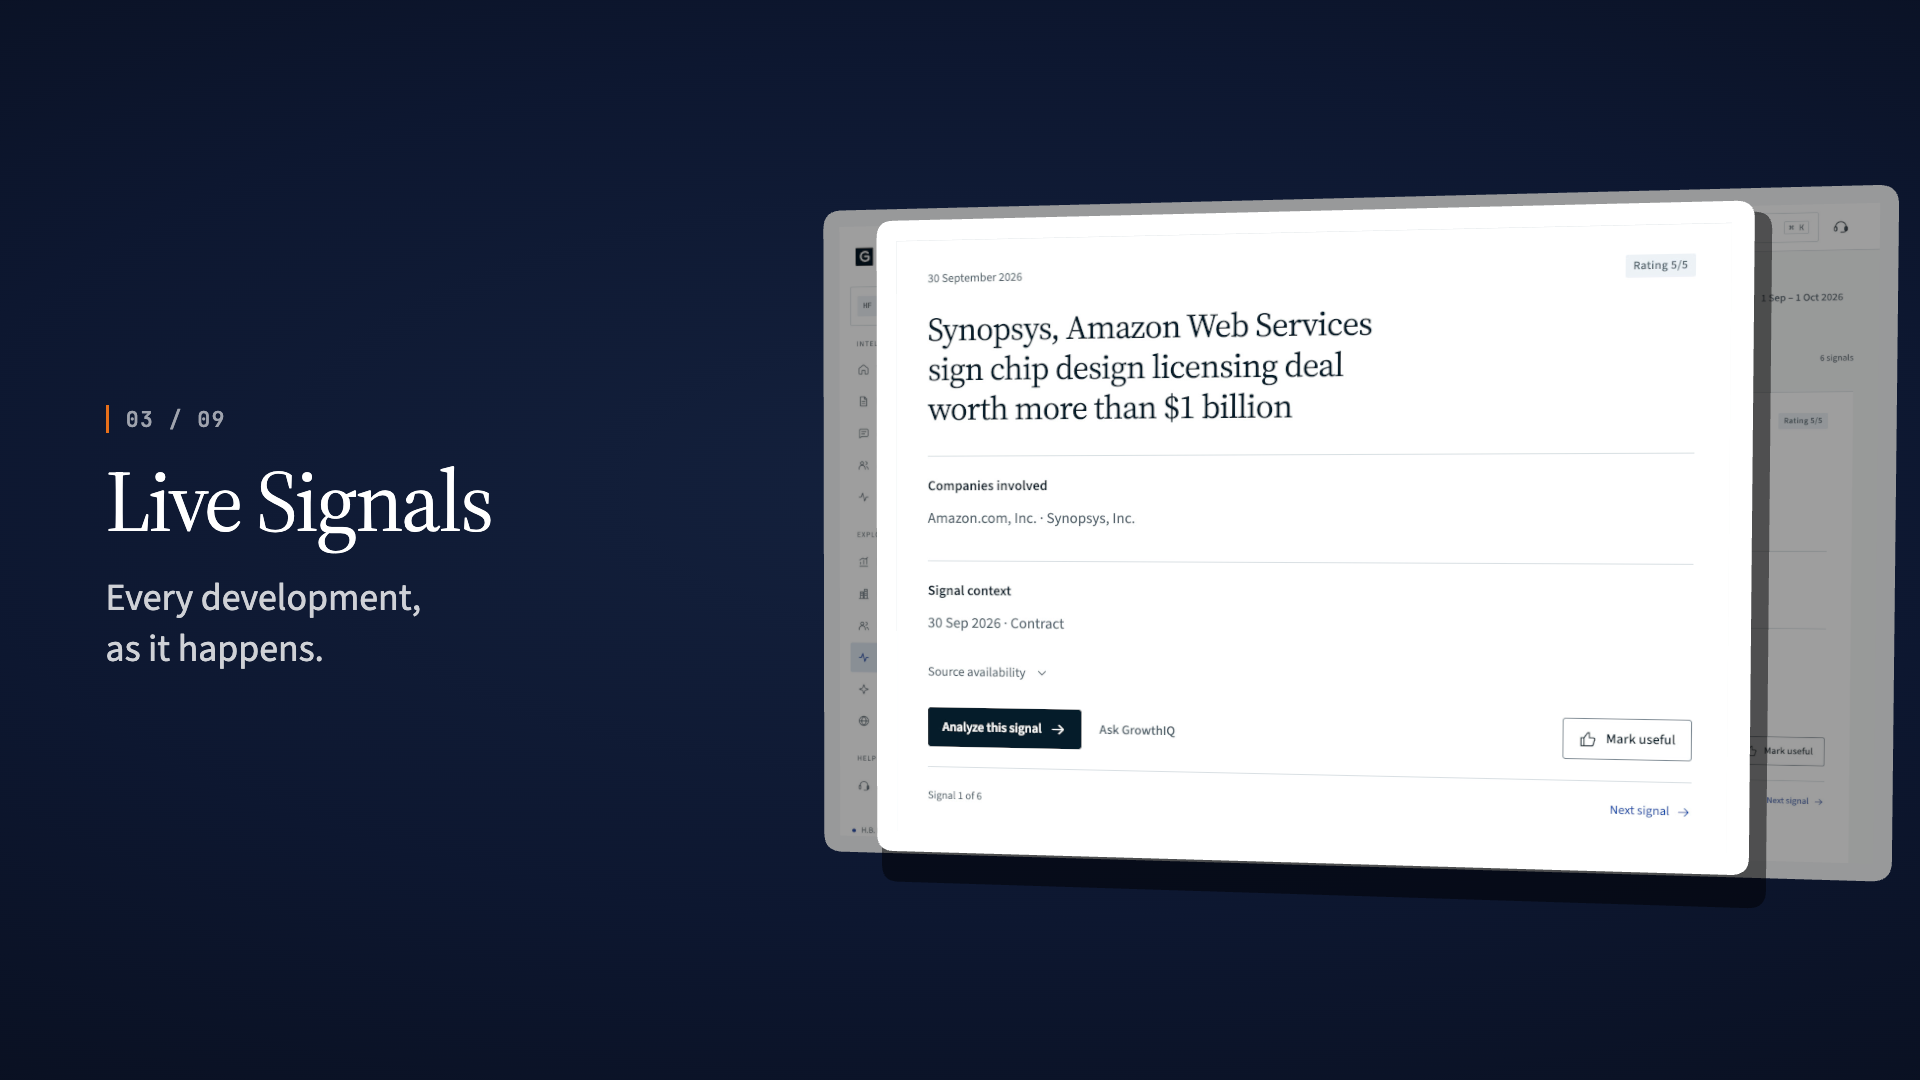
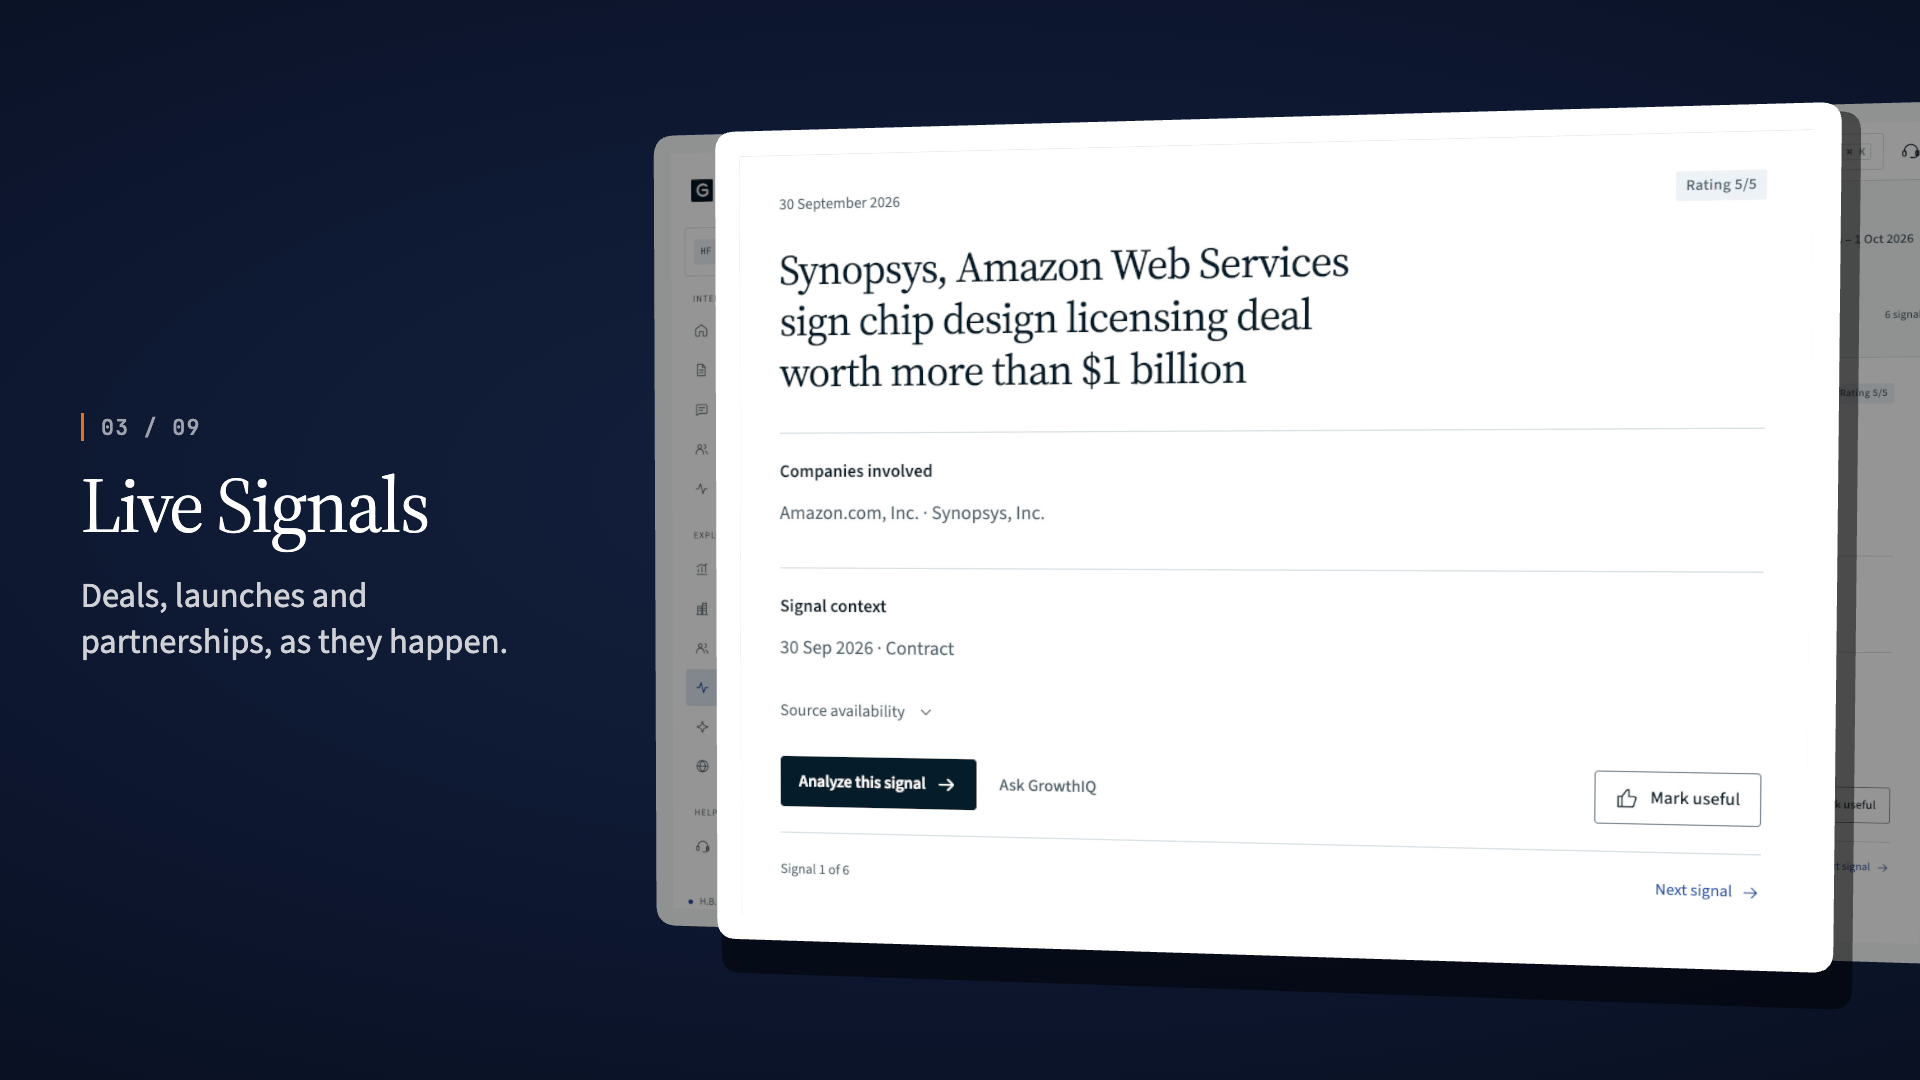
Second pass on the reel: larger, varied, scored, with rewritten captions
Cards and lifted panels are about a third larger. Shots now arrive three
ways (side, rising, out of the distance); some lift two panels in turn and
some slide a window across a region too large to read at once. The reel
gets its own generated score on the film's engine, which now accepts any
event list, length and level. Captions are rewritten.

diff --git a/reel/Scene.jsx b/reel/Scene.jsx
@@ -3,11 +3,11 @@ import {Canvas, useFrame, useLoader} from '@react-three/fiber';
 import * as THREE from 'three';
 import {shots, wall, close, images, phase, span, mix, inOut, out} from './shots.mjs';
 
-const CARD_HEIGHT = 3.7, PIXELS = [1440, 900], CARD_COLOUR = '#f7f8f9';
-const part = (texture, [x, y, w, h]) => { const t = texture.clone(); t.repeat.set(w, h); t.offset.set(x, 1 - y - h); t.needsUpdate = true; return t; };
-
+const CARD_HEIGHT = 4.6, PIXELS = [1440, 900], CARD_COLOUR = '#f7f8f9';
 // Even margins, in scene units: around the screen on its card, and around a lifted region.
-const CARD_MARGIN = 0.1, PANEL_MARGIN = 0.085, RADIUS = 0.07;
+const CARD_MARGIN = 0.11, PANEL_MARGIN = 0.1, RADIUS = 0.08;
+// The largest a lifted panel may grow to, before perspective.
+const PANEL_MAX = [5.5, 4.2];
 function roundedRect(w, h, r) {
   const x = -w / 2, y = -h / 2, s = new THREE.Shape();
   s.moveTo(x + r, y); s.lineTo(x + w - r, y); s.quadraticCurveTo(x + w, y, x + w, y + r); s.lineTo(x + w, y + h - r); s.quadraticCurveTo(x + w, y + h, x + w - r, y + h);
@@ -15,45 +15,67 @@ function roundedRect(w, h, r) {
   return new THREE.ShapeGeometry(s, 10);
 }
 
-// One product screen: it flies in as a card with an even margin round it, then the part being
-// talked about lifts off towards the viewer on its own padded panel while the rest falls back.
+// One product screen: it arrives as a card with an even margin round it, then the parts being
+// talked about lift off towards the viewer on their own padded panels while the rest falls back.
 function Shot({shot, texture, beat}) {
-  const group = useRef(), card = useRef(), cardBack = useRef(), panel = useRef(), shadow = useRef();
+  const group = useRef(), card = useRef(), cardBack = useRef(), panels = useRef([]);
   const g = useMemo(() => {
-    const [fx, fy, fw, fh] = shot.focusRect;
-    const height = CARD_HEIGHT, width = height * PIXELS[0] / PIXELS[1];
-    const size = [fw * width, fh * height], padded = [size[0] + PANEL_MARGIN * 2, size[1] + PANEL_MARGIN * 2];
-    return {width, height, size, home: [(fx + fw / 2 - 0.5) * width, (0.5 - fy - fh / 2) * height],
-      grow: Math.min(4.3 / padded[0], 3.25 / padded[1], 2.7), focusMap: part(texture, shot.focusRect),
-      cardShape: roundedRect(width + CARD_MARGIN * 2, height + CARD_MARGIN * 2, RADIUS * 1.6), panelShape: roundedRect(padded[0], padded[1], RADIUS), shadowShape: roundedRect(padded[0] * 1.03, padded[1] * 1.05, RADIUS)};
+    const height = CARD_HEIGHT, width = height * PIXELS[0] / PIXELS[1], pair = shot.panels.length > 1;
+    return {width, height, cardShape: roundedRect(width + CARD_MARGIN * 2, height + CARD_MARGIN * 2, RADIUS * 1.6), panels: shot.panels.map((panel, n) => {
+      const [x, y, w, h] = panel.rect, pan = panel.pan;
+      // A panning panel shows a window onto its region: part of the width or part of the height.
+      const seen = [pan?.axis === 'x' ? w * pan.view : w, pan?.axis === 'y' ? h * pan.view : h];
+      const size = [seen[0] * width, seen[1] * height], padded = [size[0] + PANEL_MARGIN * 2, size[1] + PANEL_MARGIN * 2];
+      const map = texture.clone(); map.repeat.set(seen[0], seen[1]); map.needsUpdate = true;
+      // Two panels share the stage: the first steps back and aside when the second arrives.
+      const limit = pair ? 0.86 : 1;
+      return {size, map, pan, rect: panel.rect, seen, background: panel.background, home: [(x + seen[0] / 2 - 0.5) * width, (0.5 - y - seen[1] / 2) * height],
+        grow: Math.min(PANEL_MAX[0] * limit / padded[0], PANEL_MAX[1] * limit / padded[1], 3.2), shape: roundedRect(padded[0], padded[1], RADIUS), shadowShape: roundedRect(padded[0] * 1.03, padded[1] * 1.05, RADIUS),
+        rest: pair ? (n === 0 ? [-0.75, 0.42, 1.0] : [0.7, -0.34, 1.75]) : [0, 0, 1.5]};
+    })};
   }, [shot, texture]);
 
   useFrame(({clock}) => {
     const p = phase(shot, beat());
     group.current.visible = p.visible;
     if (!p.visible) return;
-    const side = shot.side, drift = Math.sin(clock.elapsedTime * 0.5 + shot.from) * 0.02;
-    group.current.position.set(mix(side * 15, side * 2.2, p.enter) - side * 17 * p.leave, drift * 4, mix(-3, 0, p.enter));
-    group.current.rotation.set(0.02, mix(side * 1.0, -side * 0.15, p.enter) - side * 0.6 * p.leave + drift, 0);
-    const dim = mix(1, 0.34, p.lift);
+    const side = shot.side, drift = Math.sin(clock.elapsedTime * 0.5 + shot.from) * 0.02, x = side * 1.9, tilt = -side * 0.13;
+    // Three ways to arrive; every shot leaves the same way, off to the side it came to rest on.
+    const from = shot.entry === 'rise' ? {position: [x, -8, -1], rotation: [0.7, tilt, 0]} : shot.entry === 'depth' ? {position: [x * 0.4, 0.6, -26], rotation: [0.02, tilt * 3, 0]} : {position: [side * 15, 0, -3], rotation: [0.02, side * 1.0, 0]};
+    const to = {position: [x, 0, 0], rotation: [0.02, tilt, 0]};
+    group.current.position.set(mix(from.position[0], to.position[0], p.enter) - side * 17 * p.leave, mix(from.position[1], to.position[1], p.enter) + drift * 4, mix(from.position[2], to.position[2], p.enter));
+    group.current.rotation.set(mix(from.rotation[0], to.rotation[0], p.enter), mix(from.rotation[1], to.rotation[1], p.enter) - side * 0.6 * p.leave + drift, 0);
+    const dim = mix(1, 0.3, p.lift);
     card.current.material.color.setScalar(dim);
     cardBack.current.material.color.set(CARD_COLOUR).multiplyScalar(dim);
-    // Lifting brings the panel nearer the camera, which pushes it outwards on screen; lean it back in.
-    panel.current.position.set(mix(g.home[0], -side * 0.3, p.lift), mix(g.home[1], 0, p.lift), 0.012 + p.lift * 1.5);
-    panel.current.scale.setScalar(mix(1, g.grow, p.lift));
-    panel.current.visible = p.lift > 0.001;
-    shadow.current.material.opacity = 0.5 * p.lift;
-    shadow.current.position.set(0.05 * p.lift, -0.09 * p.lift, -0.12 * p.lift);
+
+    g.panels.forEach((panel, n) => {
+      const node = panels.current[n], lift = p.lifts[n], behind = n === 0 && g.panels.length > 1 ? p.lifts[1] : 0;
+      // Lifting brings a panel nearer the camera, which pushes it outwards on screen; lean it back in.
+      const rest = [(panel.rest[0] - behind * 0.25) * side - side * 0.25, panel.rest[1] + behind * 0.1, panel.rest[2] - behind * 0.3];
+      node.visible = lift > 0.001;
+      node.position.set(mix(panel.home[0], rest[0], lift), mix(panel.home[1], rest[1], lift), 0.012 + n * 0.01 + lift * rest[2]);
+      node.scale.setScalar(mix(1, panel.grow, lift));
+      const [shadow, back, face] = node.children;
+      shadow.material.opacity = 0.5 * lift;
+      shadow.position.set(0.05 * lift, -0.09 * lift, -0.12 * lift);
+      const shade = mix(1, 0.55, behind);
+      back.material.color.set(panel.background).multiplyScalar(shade);
+      face.material.color.setScalar(shade);
+      // The window slides across (or down) its region while the panel is up.
+      const [rx, ry, rw, rh] = panel.rect, slide = panel.pan ? p.slide : 0;
+      panel.map.offset.set(rx + (panel.pan?.axis === 'x' ? (rw - panel.seen[0]) * slide : 0), 1 - ry - panel.seen[1] - (panel.pan?.axis === 'y' ? (rh - panel.seen[1]) * slide : 0));
+    });
   });
 
   return <group ref={group} visible={false}>
     <mesh ref={cardBack} geometry={g.cardShape} position-z={-0.004}><meshBasicMaterial toneMapped={false}/></mesh>
     <mesh ref={card} scale={[g.width, g.height, 1]}><planeGeometry/><meshBasicMaterial map={texture} toneMapped={false}/></mesh>
-    <group ref={panel} visible={false}>
-      <mesh ref={shadow} geometry={g.shadowShape}><meshBasicMaterial color="#03060f" transparent opacity={0} depthWrite={false}/></mesh>
-      <mesh geometry={g.panelShape} position-z={0.002}><meshBasicMaterial color={shot.focusBackground} toneMapped={false}/></mesh>
-      <mesh scale={[g.size[0], g.size[1], 1]} position-z={0.004}><planeGeometry/><meshBasicMaterial map={g.focusMap} toneMapped={false}/></mesh>
-    </group>
+    {g.panels.map((panel, n) => <group key={n} ref={node => { panels.current[n] = node; }} visible={false}>
+      <mesh geometry={panel.shadowShape}><meshBasicMaterial color="#03060f" transparent opacity={0} depthWrite={false}/></mesh>
+      <mesh geometry={panel.shape} position-z={0.002}><meshBasicMaterial toneMapped={false}/></mesh>
+      <mesh scale={[panel.size[0], panel.size[1], 1]} position-z={0.004}><planeGeometry/><meshBasicMaterial map={panel.map} toneMapped={false}/></mesh>
+    </group>)}
   </group>;
 }
 

diff --git a/reel/reel.jsx b/reel/reel.jsx
@@ -2,10 +2,17 @@ import React, {useEffect, useRef, useState} from 'react';
 import {createRoot} from 'react-dom/client';
 import {shots, close, beatAt, DURATION, phase} from './shots.mjs';
 import Scene from './Scene.jsx';
+import {compose, renderWav} from '../film/sound.mjs';
+import {events, LEVEL} from './sound.mjs';
+import {BEATS} from './shots.mjs';
 
 const params = new URLSearchParams(location.search);
 // ?t=<seconds> shows one frozen frame; ?autostart begins without a key press, for recording.
 const frozen = params.has('t') ? Number(params.get('t')) : null;
+// Sound needs a key press to begin, so a recording run (?autostart) and ?mute are silent.
+const silent = frozen !== null || params.has('autostart') || params.has('mute');
+// Lets an export script fetch the rendered score.
+window.renderScore = async () => { const bytes = new Uint8Array(await (await renderWav(44100, events(), BEATS, LEVEL)).arrayBuffer()); let text = ''; for (let i = 0; i < bytes.length; i += 32768) text += String.fromCharCode(...bytes.subarray(i, i + 32768)); return btoa(text); };
 
 // What the captions should show at a given beat; the page re-renders only when this changes.
 const view = b => ({intro: b < 7, shot: shots.findIndex(s => phase(s, b).name), line: shots.some(s => phase(s, b).line), mark: b >= close.from + 1, closing: b >= close.from + 2.5 && b < close.to - 0.8});
@@ -14,15 +21,22 @@ function Reel() {
   const [started, setStarted] = useState(frozen !== null || params.has('autostart'));
   const origin = useRef(performance.now());
   const root = useRef(null);
-  const seconds = () => frozen ?? (started ? Math.min(DURATION, (performance.now() - origin.current) / 1000) : 0);
+  const audio = useRef(null);
+  // One clock for picture and sound: the audio clock when there is sound, wall time when not.
+  const seconds = () => frozen ?? (!started ? 0 : Math.max(0, Math.min(DURATION, audio.current ? audio.current.ctx.currentTime - audio.current.start : (performance.now() - origin.current) / 1000)));
   const beat = () => beatAt(seconds());
-  const start = () => { origin.current = performance.now(); setStarted(true); };
+  const start = () => {
+    audio.current?.ctx.close(); audio.current = null;
+    if (!silent) { const ctx = new AudioContext(), begin = ctx.currentTime + 0.12; audio.current = {ctx, start: begin, master: compose(ctx, ctx.destination, begin, events(), LEVEL)}; }
+    origin.current = performance.now(); setStarted(true);
+  };
   const [v, setV] = useState(() => view(beat()));
 
   useEffect(() => {
     const onKey = event => {
       if (event.key === ' ' || event.key === 'Enter') { event.preventDefault(); if (!started) start(); }
       if (event.key === 'r' || event.key === 'R') start();
+      if ((event.key === 'm' || event.key === 'M') && audio.current) { const g = audio.current.master.gain; g.value = g.value ? 0 : LEVEL; }
       if (event.key === 'f' || event.key === 'F') document.fullscreenElement ? document.exitFullscreen() : root.current.requestFullscreen?.();
     };
     addEventListener('keydown', onKey);
@@ -41,6 +55,8 @@ function Reel() {
       <div className="reel-close"><p className="reel-mark" data-on={v.mark}>{close.mark}</p><p className="reel-line" data-on={v.closing}>{close.line}</p></div>
     </div>
     {!started && <p className="reel-start">Press space to begin</p>}
+    {/* ?sync flashes a corner marker on the first frames so an export can line sound up with picture. */}
+    {started && params.has('sync') && <i className="reel-sync"/>}
   </div>;
 }
 

diff --git a/reel.css b/reel.css
@@ -14,15 +14,18 @@ html,body{height:100%;margin:0;overflow:hidden;background:#070b16}
 .reel-mark[data-on="true"]{opacity:1;transform:none}
 
 /* Captions sit on the side the card leaves free */
-.reel-caption{position:absolute;top:50%;width:27vw;transform:translateY(-50%)}
-.reel-caption[data-side="1"]{left:5.5vw}
-.reel-caption[data-side="-1"]{left:67.5vw}
+.reel-caption{position:absolute;top:50%;width:24vw;transform:translateY(-50%)}
+.reel-caption[data-side="1"]{left:4.2vw}
+.reel-caption[data-side="-1"]{left:71.8vw}
 .reel-caption>*{opacity:0;transform:translateY(1.6vh);transition:opacity calc(var(--beat) * .6),transform calc(var(--beat) * 1.6) var(--out)}
 .reel-caption[data-on="true"] small,.reel-caption[data-on="true"] h2,.reel-caption p[data-on="true"]{opacity:1;transform:none}
 .reel-caption small{display:block;margin-bottom:2.2vh;padding-left:1.6vh;border-left:3px solid var(--orange);font:500 2vh "JetBrains Mono",monospace;letter-spacing:.06em;color:rgb(255 255 255 / .6)}
-.reel-caption h2{margin:0;font-size:8vh;font-weight:400;line-height:1.02;letter-spacing:-.025em;text-wrap:balance}
-.reel-caption p{margin:2.6vh 0 0;font:400 3.5vh/1.35 "Source Sans 3",sans-serif;color:rgb(255 255 255 / .8);text-wrap:balance}
+.reel-caption h2{margin:0;font-size:7.2vh;font-weight:400;line-height:1.04;letter-spacing:-.025em;text-wrap:balance}
+.reel-caption p{margin:2.6vh 0 0;font:400 3.2vh/1.35 "Source Sans 3",sans-serif;color:rgb(255 255 255 / .8);text-wrap:balance}
 
 .reel-close .reel-mark{margin-top:-13vh;font-size:11vh}
 .reel-line{position:absolute;left:0;right:0;top:50%;margin:3vh 0 0;text-align:center;font-size:6.4vh;letter-spacing:-.02em;opacity:0;transform:translateY(1.4vh);transition:opacity calc(var(--beat) * 1.4),transform calc(var(--beat) * 3) var(--out)}
 .reel-line[data-on="true"]{opacity:1;transform:none}
+
+.reel-sync{position:absolute;left:0;top:0;width:10px;height:10px;background:#fff;animation:reel-sync .1s steps(1) forwards}
+@keyframes reel-sync{to{visibility:hidden}}
